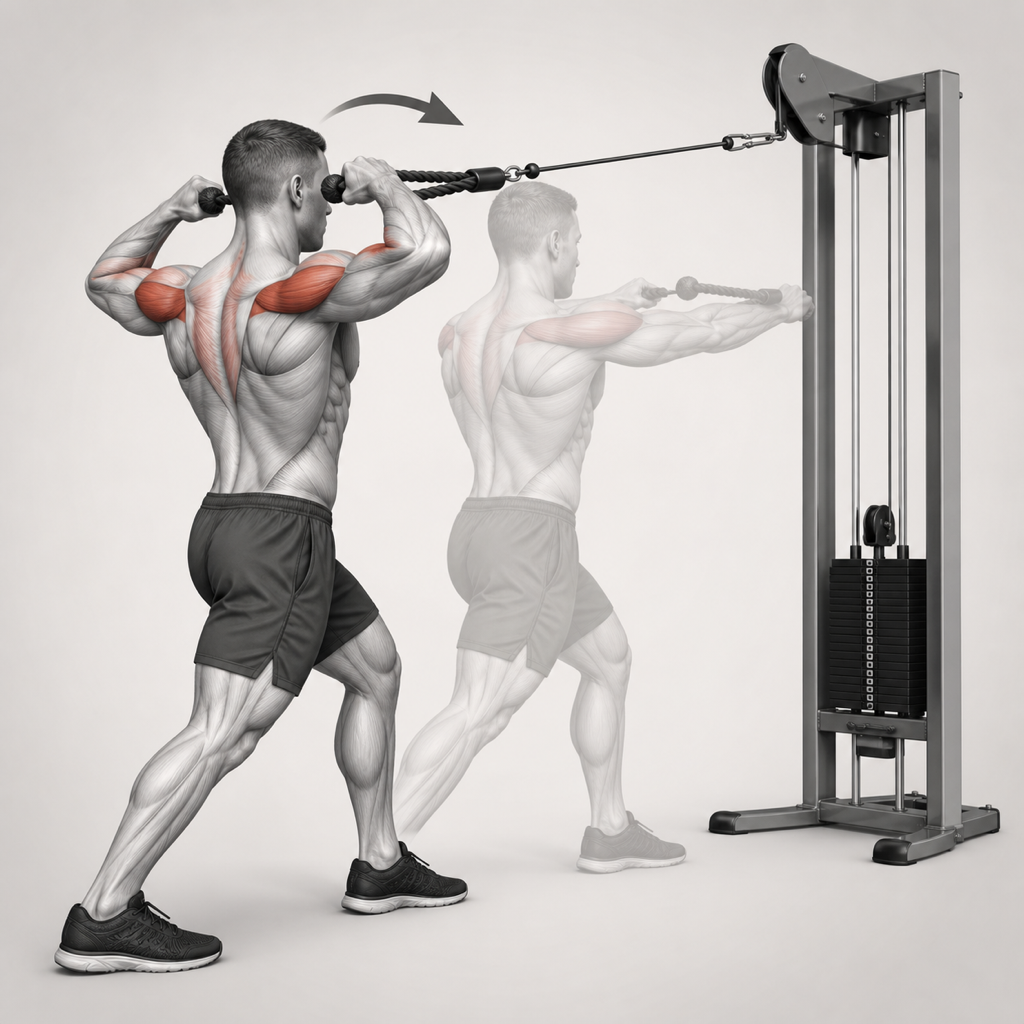
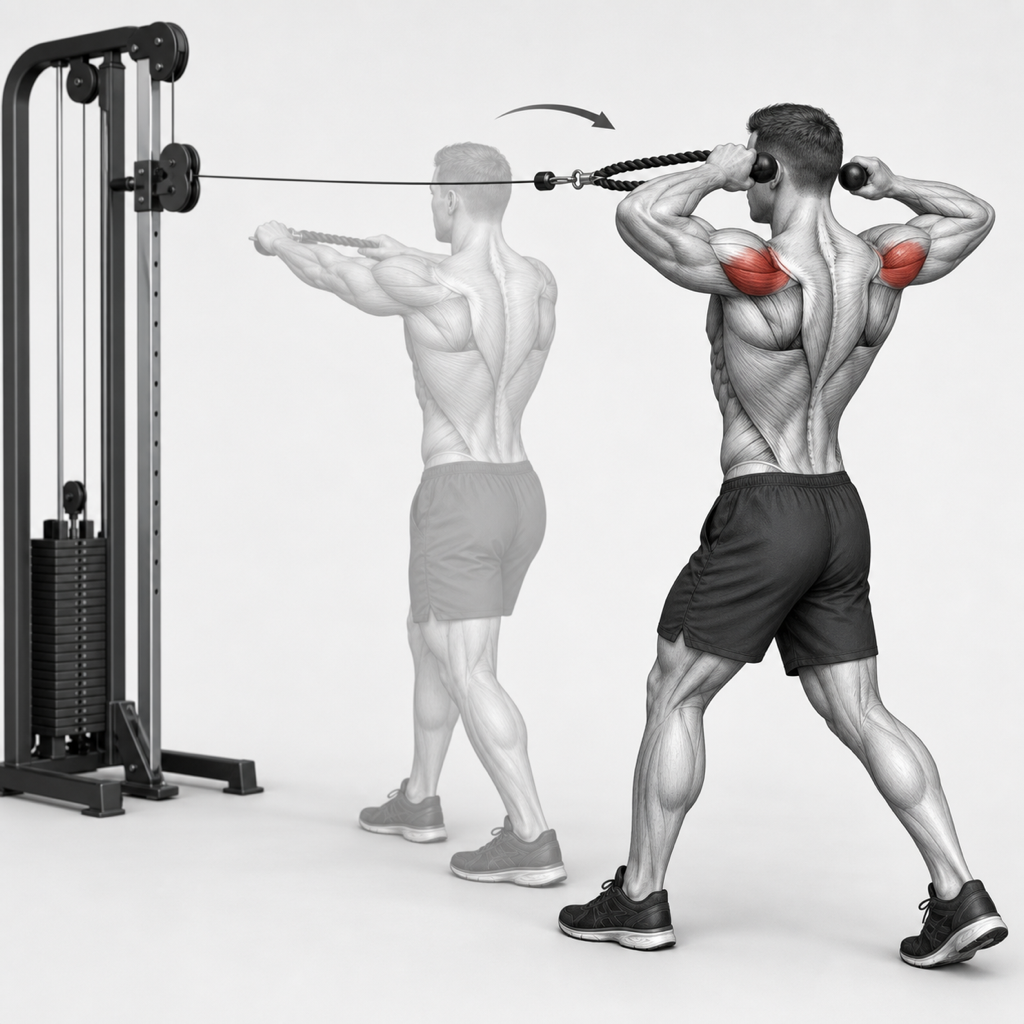
fix: preserve reviewed catalog artwork

diff --git a/tests/TrackZ.Infrastructure.Tests/Seed/ExerciseCatalogManifestTests.cs b/tests/TrackZ.Infrastructure.Tests/Seed/ExerciseCatalogManifestTests.cs
@@ -25,13 +25,12 @@ public sealed class ExerciseCatalogManifestTests
 
         Assert.Equal(ExpectedNames, items.Select(item => item.Name));
         Assert.Equal(ExpectedIds, items.Select(item => item.Id));
-        Assert.Equal(
-            [BodyPart.Chest, BodyPart.Back, BodyPart.Shoulders, BodyPart.Arms, BodyPart.Legs, BodyPart.Core],
-            items.Chunk(8).Select(group => group.First().BodyPart));
+        Assert.Equal(ExpectedBodyParts, items.Select(item => item.BodyPart));
         Assert.Equal(7, items.Count(item => item.TrackingMode == TrackingMode.Bodyweight));
         Assert.Equal(TrackingMode.Assisted, Assert.Single(items, item => item.Name == "Assisted Pull-Up").TrackingMode);
         Assert.All(items.Where(item => item.Name != "Assisted Pull-Up" && !BodyweightNames.Contains(item.Name)), item => Assert.Equal(TrackingMode.Weighted, item.TrackingMode));
         Assert.All(items, item => Assert.Equal(ExerciseImageReviewState.Draft, item.ReviewState));
+        Assert.All(items, item => Assert.Equal(ExerciseManifest.AiGeneratedProjectOwnedDraftSourceReference, item.SourceReference));
     }
 
     [Theory]
@@ -58,6 +57,39 @@ public sealed class ExerciseCatalogManifestTests
         var path = WriteModifiedCatalog(source => source.Replace(
             "\"slug\": \"incline-barbell-bench-press\", \"imagePath\": \"assets/exercises/images/incline-barbell-bench-press.png\"",
             "\"slug\": \"barbell-bench-press\", \"imagePath\": \"assets/exercises/images/barbell-bench-press.png\"",
+            StringComparison.Ordinal));
+        try
+        {
+            Assert.Throws<InvalidDataException>(() => ExerciseManifest.Load(path));
+        }
+        finally
+        {
+            File.Delete(path);
+        }
+    }
+
+    [Fact]
+    public void Loader_rejects_a_name_to_body_part_swap_that_preserves_group_counts()
+    {
+        var path = WriteModifiedCatalog(source => source
+            .Replace("\"name\": \"Barbell Bench Press\", \"bodyPart\": \"Chest\"", "\"name\": \"Barbell Bench Press\", \"bodyPart\": \"Back\"", StringComparison.Ordinal)
+            .Replace("\"name\": \"Lat Pulldown\", \"bodyPart\": \"Back\"", "\"name\": \"Lat Pulldown\", \"bodyPart\": \"Chest\"", StringComparison.Ordinal));
+        try
+        {
+            Assert.Throws<InvalidDataException>(() => ExerciseManifest.Load(path));
+        }
+        finally
+        {
+            File.Delete(path);
+        }
+    }
+
+    [Fact]
+    public void Loader_rejects_an_unsupported_artwork_provenance()
+    {
+        var path = WriteModifiedCatalog(source => source.Replace(
+            "\"sourceReference\": \"ai-generated-project-owned-draft\"",
+            "\"sourceReference\": \"unverified-third-party-image\"",
             StringComparison.Ordinal));
         try
         {
@@ -140,6 +172,16 @@ public sealed class ExerciseCatalogManifestTests
         Guid.Parse("2af9cf0e-7441-58bf-9cea-da3b9e9611d1"), Guid.Parse("3810d1d8-a57a-5803-a110-fdaa4f6641af"), Guid.Parse("bb745a4b-5f47-5b42-afff-31116187ce98"), Guid.Parse("422ff241-deb5-583b-93c1-81e21745baac"), Guid.Parse("5151ef3b-cc64-54f6-a880-7f343fe4c997"), Guid.Parse("1dd57614-9adc-5fec-ac8d-f7aaa324cd58"), Guid.Parse("56c72ada-593c-584b-979e-0250ef0ad5a6"), Guid.Parse("e4ac3fe2-a2e4-5de1-9134-10d56159788e"),
         Guid.Parse("6adac5f8-1e71-5aeb-83ce-4105c7a00b8a"), Guid.Parse("0e50233c-482c-58ff-a58d-5a8516590ba9"), Guid.Parse("dc104673-de77-536b-9284-d707e13aa4fb"), Guid.Parse("884b9d13-1577-5fe1-bdc4-2b69cd281380"), Guid.Parse("b11d97ff-e793-50b3-b8a7-4ade5e74b11c"), Guid.Parse("5f70df5c-ebd2-5414-947d-b98e4e23c95e"), Guid.Parse("84473551-deb5-542d-afea-11b17a01b7f4"), Guid.Parse("cb8a6255-4e72-5fa1-8fe7-6d89ae60544d"),
         Guid.Parse("915932ce-b948-5d5f-becd-de0bf5f4a9a2"), Guid.Parse("f8a24551-0cbe-5509-af38-05ff3131db94"), Guid.Parse("e272e64a-bd32-5287-b207-155bd1dea34f"), Guid.Parse("1cd9d8ae-cb7b-57b7-9445-db5952712354"), Guid.Parse("f321c70a-023a-51e8-a85d-cdaa87d51f20"), Guid.Parse("41ff5bf8-2a64-5d50-96ae-b9c5216b7126"), Guid.Parse("73bfc117-c21e-5789-be65-073126c57180"), Guid.Parse("33a08f1f-4dbf-592b-97e3-901d7f006cec")
+    ];
+
+    private static readonly BodyPart[] ExpectedBodyParts =
+    [
+        BodyPart.Chest, BodyPart.Chest, BodyPart.Chest, BodyPart.Chest, BodyPart.Chest, BodyPart.Chest, BodyPart.Chest, BodyPart.Chest,
+        BodyPart.Back, BodyPart.Back, BodyPart.Back, BodyPart.Back, BodyPart.Back, BodyPart.Back, BodyPart.Back, BodyPart.Back,
+        BodyPart.Shoulders, BodyPart.Shoulders, BodyPart.Shoulders, BodyPart.Shoulders, BodyPart.Shoulders, BodyPart.Shoulders, BodyPart.Shoulders, BodyPart.Shoulders,
+        BodyPart.Arms, BodyPart.Arms, BodyPart.Arms, BodyPart.Arms, BodyPart.Arms, BodyPart.Arms, BodyPart.Arms, BodyPart.Arms,
+        BodyPart.Legs, BodyPart.Legs, BodyPart.Legs, BodyPart.Legs, BodyPart.Legs, BodyPart.Legs, BodyPart.Legs, BodyPart.Legs,
+        BodyPart.Core, BodyPart.Core, BodyPart.Core, BodyPart.Core, BodyPart.Core, BodyPart.Core, BodyPart.Core, BodyPart.Core
     ];
 
     private static readonly HashSet<string> BodyweightNames = new(StringComparer.Ordinal)

diff --git a/tests/TrackZ.Infrastructure.Tests/Seed/ExerciseCatalogSeederTests.cs b/tests/TrackZ.Infrastructure.Tests/Seed/ExerciseCatalogSeederTests.cs
@@ -90,6 +90,67 @@ public sealed class ExerciseCatalogSeederTests
         });
     }
 
+    [Fact]
+    public async Task Seeder_preserves_a_valid_reviewed_v1_system_image_on_reseed()
+    {
+        await using var database = await PostgreSqlFixture.StartAsync();
+        var seeder = new ExerciseCatalogSeeder(database.Db, new DeployedAssets());
+        await seeder.SeedAsync(CatalogPath, default);
+        var image = await database.Db.ExerciseImages.OrderBy(image => image.ExerciseDefinitionId).FirstAsync();
+        var reviewerId = Guid.NewGuid();
+        var reviewedAt = DateTimeOffset.UtcNow.AddMinutes(1);
+        image.Review(reviewerId, "human-rights-record-001", true, true, true, reviewedAt);
+        await database.Db.SaveChangesAsync();
+        var snapshot = (image.Id, image.Version, image.MasterObjectKey, image.ThumbnailObjectKey, image.ReviewState, image.ReviewedByUserId, image.ReviewedAt, image.PublishedAt);
+
+        await seeder.SeedAsync(CatalogPath, default);
+
+        var persisted = await database.Db.ExerciseImages.SingleAsync(item => item.Id == image.Id);
+        Assert.Equal(snapshot, (persisted.Id, persisted.Version, persisted.MasterObjectKey, persisted.ThumbnailObjectKey, persisted.ReviewState, persisted.ReviewedByUserId, persisted.ReviewedAt, persisted.PublishedAt));
+    }
+
+    [Fact]
+    public async Task Seeder_preserves_a_valid_published_v1_system_image_on_reseed()
+    {
+        await using var database = await PostgreSqlFixture.StartAsync();
+        var seeder = new ExerciseCatalogSeeder(database.Db, new DeployedAssets());
+        await seeder.SeedAsync(CatalogPath, default);
+        var image = await database.Db.ExerciseImages.OrderBy(image => image.ExerciseDefinitionId).FirstAsync();
+        var reviewerId = Guid.NewGuid();
+        var reviewedAt = DateTimeOffset.UtcNow.AddMinutes(1);
+        var publishedAt = reviewedAt.AddMinutes(1);
+        image.Review(reviewerId, "human-rights-record-002", true, true, true, reviewedAt);
+        image.Publish(publishedAt);
+        await database.Db.SaveChangesAsync();
+        var snapshot = (image.Id, image.Version, image.MasterObjectKey, image.ThumbnailObjectKey, image.ReviewState, image.ReviewedByUserId, image.ReviewedAt, image.PublishedAt);
+
+        await seeder.SeedAsync(CatalogPath, default);
+
+        var persisted = await database.Db.ExerciseImages.SingleAsync(item => item.Id == image.Id);
+        Assert.Equal(snapshot, (persisted.Id, persisted.Version, persisted.MasterObjectKey, persisted.ThumbnailObjectKey, persisted.ReviewState, persisted.ReviewedByUserId, persisted.ReviewedAt, persisted.PublishedAt));
+    }
+
+    [Fact]
+    public async Task Seeder_repeats_deployed_assets_without_changing_image_identity_or_keys()
+    {
+        await using var database = await PostgreSqlFixture.StartAsync();
+        var seeder = new ExerciseCatalogSeeder(database.Db, new DeployedAssets());
+        await seeder.SeedAsync(CatalogPath, default);
+        var before = await database.Db.ExerciseImages
+            .OrderBy(image => image.ExerciseDefinitionId)
+            .Select(image => new { image.Id, image.Version, image.MasterObjectKey, image.ThumbnailObjectKey })
+            .ToArrayAsync();
+
+        await seeder.SeedAsync(CatalogPath, default);
+
+        var after = await database.Db.ExerciseImages
+            .OrderBy(image => image.ExerciseDefinitionId)
+            .Select(image => new { image.Id, image.Version, image.MasterObjectKey, image.ThumbnailObjectKey })
+            .ToArrayAsync();
+        Assert.Equal(48, after.Length);
+        Assert.Equal(before, after);
+    }
+
     private static string CatalogPath => Path.Combine(RepositoryRoot, "assets", "exercises", "catalog.json");
 
     private static string RepositoryRoot

diff --git a/src/TrackZ.Infrastructure/Persistence/Seed/ExerciseManifest.cs b/src/TrackZ.Infrastructure/Persistence/Seed/ExerciseManifest.cs
@@ -19,6 +19,23 @@ public static partial class ExerciseManifest
 {
     public const string Schema = "trackz.exercise-catalog";
     public const int Version = 1;
+    public const string AiGeneratedProjectOwnedDraftSourceReference = "ai-generated-project-owned-draft";
+
+    private static readonly IReadOnlyDictionary<string, BodyPart> CanonicalBodyParts = new Dictionary<string, BodyPart>(StringComparer.Ordinal)
+    {
+        ["Barbell Bench Press"] = BodyPart.Chest, ["Incline Barbell Bench Press"] = BodyPart.Chest, ["Dumbbell Bench Press"] = BodyPart.Chest, ["Incline Dumbbell Press"] = BodyPart.Chest,
+        ["Chest Press Machine"] = BodyPart.Chest, ["Cable Fly"] = BodyPart.Chest, ["Pec Deck Fly"] = BodyPart.Chest, ["Decline Push-Up"] = BodyPart.Chest,
+        ["Lat Pulldown"] = BodyPart.Back, ["Pull-Up"] = BodyPart.Back, ["Assisted Pull-Up"] = BodyPart.Back, ["Seated Cable Row"] = BodyPart.Back,
+        ["Chest-Supported Row"] = BodyPart.Back, ["Barbell Row"] = BodyPart.Back, ["One-Arm Dumbbell Row"] = BodyPart.Back, ["Straight-Arm Pulldown"] = BodyPart.Back,
+        ["Overhead Press"] = BodyPart.Shoulders, ["Dumbbell Shoulder Press"] = BodyPart.Shoulders, ["Machine Shoulder Press"] = BodyPart.Shoulders, ["Lateral Raise"] = BodyPart.Shoulders,
+        ["Cable Lateral Raise"] = BodyPart.Shoulders, ["Rear Delt Fly"] = BodyPart.Shoulders, ["Face Pull"] = BodyPart.Shoulders, ["Upright Row"] = BodyPart.Shoulders,
+        ["Barbell Curl"] = BodyPart.Arms, ["Dumbbell Curl"] = BodyPart.Arms, ["Hammer Curl"] = BodyPart.Arms, ["Preacher Curl"] = BodyPart.Arms,
+        ["Triceps Pushdown"] = BodyPart.Arms, ["Overhead Triceps Extension"] = BodyPart.Arms, ["Skull Crusher"] = BodyPart.Arms, ["Close-Grip Bench Press"] = BodyPart.Arms,
+        ["Back Squat"] = BodyPart.Legs, ["Front Squat"] = BodyPart.Legs, ["Leg Press"] = BodyPart.Legs, ["Romanian Deadlift"] = BodyPart.Legs,
+        ["Leg Extension"] = BodyPart.Legs, ["Seated Leg Curl"] = BodyPart.Legs, ["Bulgarian Split Squat"] = BodyPart.Legs, ["Standing Calf Raise"] = BodyPart.Legs,
+        ["Cable Crunch"] = BodyPart.Core, ["Hanging Knee Raise"] = BodyPart.Core, ["Hanging Leg Raise"] = BodyPart.Core, ["Ab Wheel Rollout"] = BodyPart.Core,
+        ["Weighted Sit-Up"] = BodyPart.Core, ["Decline Sit-Up"] = BodyPart.Core, ["Reverse Crunch"] = BodyPart.Core, ["Pallof Press"] = BodyPart.Core
+    };
 
     private static readonly JsonSerializerOptions SerializerOptions = new()
     {
@@ -115,7 +132,12 @@ public static partial class ExerciseManifest
 
         foreach (var item in items)
         {
-            if (!Enum.IsDefined(item.BodyPart) || !Enum.IsDefined(item.TrackingMode) || item.ReviewState != ExerciseImageReviewState.Draft)
+            if (!Enum.IsDefined(item.BodyPart)
+                || !Enum.IsDefined(item.TrackingMode)
+                || item.ReviewState != ExerciseImageReviewState.Draft
+                || !CanonicalBodyParts.TryGetValue(item.Name, out var expectedBodyPart)
+                || item.BodyPart != expectedBodyPart
+                || !string.Equals(item.SourceReference, AiGeneratedProjectOwnedDraftSourceReference, StringComparison.Ordinal))
             {
                 throw new InvalidDataException($"Exercise catalog manifest has invalid enum values for '{item.Name}'.");
             }

diff --git a/src/TrackZ.Infrastructure/Persistence/Seed/ExerciseCatalogSeeder.cs b/src/TrackZ.Infrastructure/Persistence/Seed/ExerciseCatalogSeeder.cs
@@ -61,7 +61,7 @@ public sealed class ExerciseCatalogSeeder(AppDbContext database, IExerciseCatalo
             var image = existingImages.SingleOrDefault(existing => existing.ExerciseDefinitionId == item.Id && existing.Version == 1);
             if (image is not null)
             {
-                EnsureMatchingDraftImage(image, item);
+                EnsureMatchingSystemImage(image, item);
                 continue;
             }
 
@@ -106,24 +106,50 @@ public sealed class ExerciseCatalogSeeder(AppDbContext database, IExerciseCatalo
         }
     }
 
-    private static void EnsureMatchingDraftImage(ExerciseImage image, ExerciseManifestItem item)
+    private static void EnsureMatchingSystemImage(ExerciseImage image, ExerciseManifestItem item)
     {
         if (image.Source != ExerciseImageSource.SystemArtwork
             || image.IsPrivate
             || image.OwnerId is not null
-            || image.ReviewState != ExerciseImageReviewState.Draft
-            || image.ReviewedByUserId is not null
-            || image.ReviewedAt is not null
-            || image.PublishedAt is not null
-            || image.RightsReference is not null
-            || image.AnatomyApproved
-            || image.MovementApproved
-            || image.RightsApproved
+            || image.Version != 1
             || !string.Equals(image.MasterObjectKey, MasterKey(item.Id), StringComparison.Ordinal)
             || !string.Equals(image.ThumbnailObjectKey, ThumbnailKey(item.Id), StringComparison.Ordinal)
-            || !string.Equals(image.SourceReference, item.SourceReference, StringComparison.Ordinal))
+            || !string.Equals(image.SourceReference, item.SourceReference, StringComparison.Ordinal)
+            || !HasConsistentLifecycleMetadata(image))
         {
             throw new InvalidOperationException($"Exercise catalog artwork for '{item.Name}' conflicts with the Draft manifest.");
         }
     }
+
+    private static bool HasConsistentLifecycleMetadata(ExerciseImage image) => image.ReviewState switch
+    {
+        ExerciseImageReviewState.Draft =>
+            image.ReviewedByUserId is null
+            && image.ReviewedAt is null
+            && image.PublishedAt is null
+            && image.RightsReference is null
+            && !image.AnatomyApproved
+            && !image.MovementApproved
+            && !image.RightsApproved,
+        ExerciseImageReviewState.Reviewed =>
+            image.ReviewedByUserId is not null
+            && image.ReviewedAt is not null
+            && image.PublishedAt is null
+            && !string.IsNullOrWhiteSpace(image.RightsReference)
+            && image.AnatomyApproved
+            && image.MovementApproved
+            && image.RightsApproved
+            && image.ReviewedAt >= image.CreatedAt,
+        ExerciseImageReviewState.Published =>
+            image.ReviewedByUserId is not null
+            && image.ReviewedAt is not null
+            && image.PublishedAt is not null
+            && !string.IsNullOrWhiteSpace(image.RightsReference)
+            && image.AnatomyApproved
+            && image.MovementApproved
+            && image.RightsApproved
+            && image.ReviewedAt >= image.CreatedAt
+            && image.PublishedAt >= image.ReviewedAt,
+        _ => false
+    };
 }

diff --git a/.superpowers/sdd/2026-08-14-trackz-02-exercise-catalog-media/task-5-report.md b/.superpowers/sdd/2026-08-14-trackz-02-exercise-catalog-media/task-5-report.md
@@ -40,3 +40,25 @@ The existing catalog API query returns no thumbnail for Draft system artwork, an
 | Command | Result |
 | --- | --- |
 | `dotnet test tests/TrackZ.Infrastructure.Tests --filter "FullyQualifiedName~ExerciseCatalogManifestTests&Category=Asset" --no-restore --verbosity minimal` | PASS — 1 passed |
+
+## Round 1/5 fixes — lifecycle safety, provenance, grouping, and targeted Draft replacements
+
+### RED/GREEN evidence
+
+- **RED:** `dotnet test tests/TrackZ.Infrastructure.Tests --filter "FullyQualifiedName~ExerciseCatalogManifestTests&Category!=Asset" --no-restore --verbosity minimal` reported 2 failures / 8 passes: an unsupported `sourceReference` and a Barbell Bench Press/Lat Pulldown body-part swap that preserved the 8-per-group count were both accepted.
+- **GREEN:** the same manifest command passed 10 / 10 after adding the canonical source-provenance literal and exact 48 name-to-body-part validation.
+- **RED:** `dotnet test tests/TrackZ.Infrastructure.Tests --filter FullyQualifiedName~ExerciseCatalogSeederTests --no-restore --verbosity minimal` reported 2 failures / 5 passes: reseeding valid Reviewed and Published version-1 system images raised a Draft conflict.
+- **GREEN:** the same seeder command passed 7 / 7 after accepting only state-consistent Draft, Reviewed, or Published lifecycle metadata while retaining system ownership, version, key, and provenance checks. The deployed-assets repeat-run acceptance test was already green against the existing idempotent path; it is mutation-sensitive to any duplicate image, regenerated ID, changed version, or changed master/thumbnail key.
+- **GREEN:** `dotnet test tests/TrackZ.Infrastructure.Tests --filter "FullyQualifiedName~ExerciseCatalogManifestTests&Category=Asset" --no-restore --verbosity minimal` passed 1 / 1 after the three replacements; it verifies every manifest PNG exists, decodes as RGBA PNG at 1024×1024, and has a unique SHA-256 hash.
+
+### Targeted Draft image provenance
+
+All three are original, built-in `imagegen` Draft outputs. The original generated files remain retained under `/Users/mikeyoshino/.codex/generated_images/01a00440-d8c1-7961-b4d6-2be3f8faa8d8`; `sips -z 1024 1024` wrote only their stable repository counterparts.
+
+| Asset | Original generated file | Stable Draft file | Actual prompt focus |
+| --- | --- | --- | --- |
+| Lat Pulldown | `/Users/mikeyoshino/.codex/generated_images/01a00440-d8c1-7961-b4d6-2be3f8faa8d8/exec-00c58ab8-0541-416e-a257-8156e4a6407a.png` | `assets/exercises/images/lat-pulldown.png` | Grayscale scientific anatomy illustration; wide-overhand bar is pulled **in front of the face to the upper chest/clavicle**, never behind the neck; lats muted red; no text/glyphs/logos/watermarks. |
+| Face Pull | `/Users/mikeyoshino/.codex/generated_images/01a00440-d8c1-7961-b4d6-2be3f8faa8d8/exec-789f33eb-bdf4-4a3b-a3ee-cf7e4d839bb5.png` | `assets/exercises/images/face-pull.png` | Grayscale scientific anatomy illustration; rope finishes at forehead/temples with elbows high and external rotation; **only posterior deltoids** muted red, all traps/upper arms/other anatomy grayscale; no text/glyphs/logos/watermarks. |
+| Front Squat | `/Users/mikeyoshino/.codex/generated_images/01a00440-d8c1-7961-b4d6-2be3f8faa8d8/exec-4177da00-a46c-446a-b243-b6b9208e9f62.png` | `assets/exercises/images/front-squat.png` | Grayscale scientific anatomy illustration; clean front rack and elbows high; every plate completely plain and unbranded with no embossed glyphs, letters, numbers, markings, or logos; no text/glyphs/watermarks. |
+
+`assets/exercises/contact-sheet.png` was rebuilt from manifest-order source files as eight columns by six body-part rows (1024×768). It is a Draft review aid only. No artwork was marked Reviewed or Published, and no product-owner, anatomy, or rights decision was recorded.
